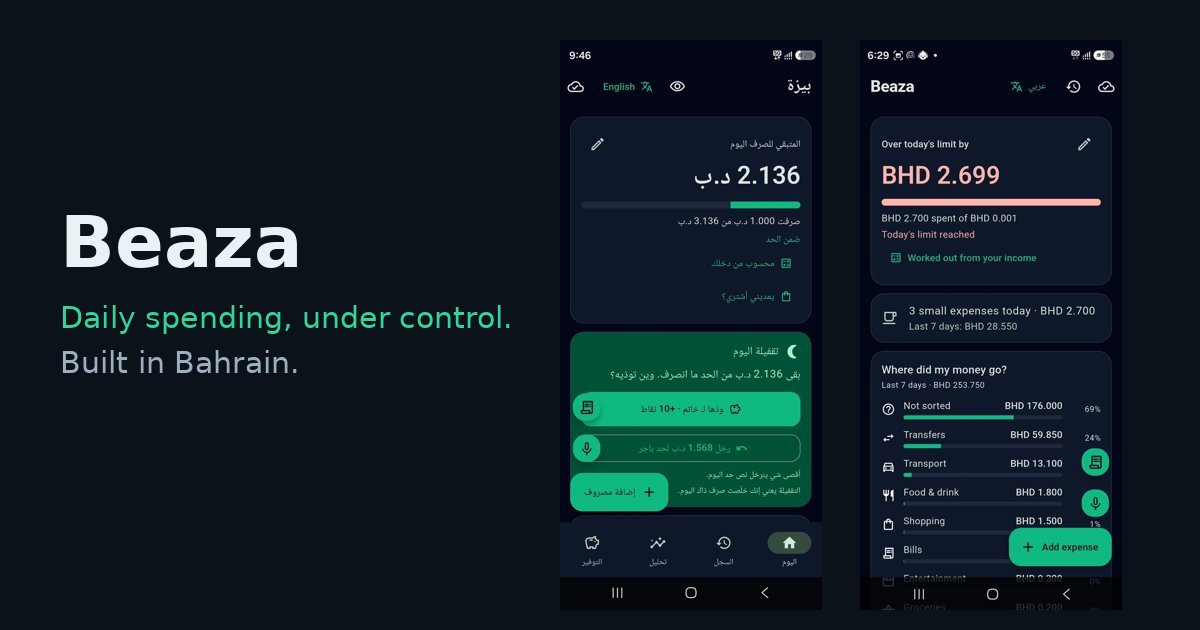
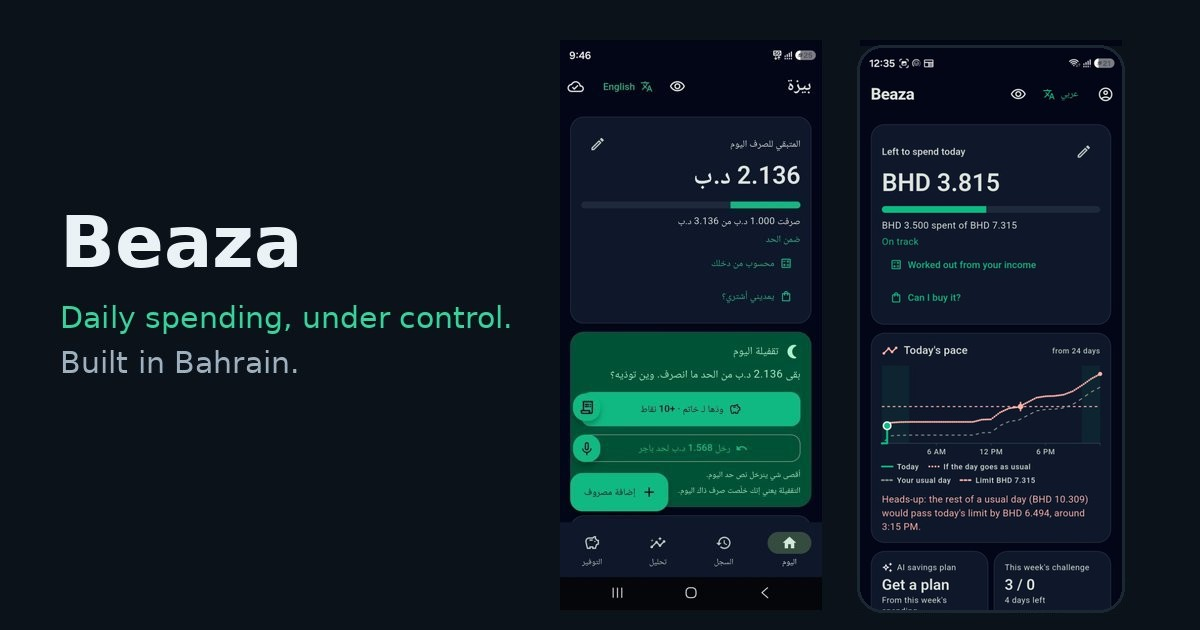
Realistic English Today screenshot (replaces 0.001 BHD limit)
Claude-Session: https://claude.ai/code/session_01Syu8kpVsETXJF3ShwWgHPk

diff --git a/assets/i18n.js b/assets/i18n.js
@@ -1,1 +1,1 @@
-window.BEAZA_AR={"nav.home": "الرئيسية", "nav.about": "من نحن", "nav.services": "الخدمات", "nav.features": "المزايا", "nav.demo": "التجربة", "nav.contact": "تواصل معنا", "nav.lang": "English", "nav.menu": "القائمة", "cta.download": "حمّل لأندرويد", "cta.watch": "شاهد العرض", "cta.contact": "تواصل معنا", "cta.tryit": "جرّب بيزة", "footer.tag": "مصروفك اليومي تحت السيطرة. صُنع في البحرين.", "footer.product": "المنتج", "footer.company": "الشركة", "footer.privacy": "رسائل البنك لا تغادر هاتفك أبدًا. المزامنة وميزات الذكاء الاصطناعي اختيارية ومُطفأة حتى تفعّلها، والمزامنة مشفّرة من طرف إلى طرف.", "footer.rights": "جميع الحقوق محفوظة.", "badge.early": "أندرويد · وصول مبكر", "home.title": "الرئيسية", "home.h1": "اعرف كم صرفت اليوم، قبل أن تفاجئك نهاية الشهر.", "home.lead": "تقرأ بيزة رسائل البنك الإنجليزية الموجودة أصلًا في هاتفك، وتحوّل كل رسالة إلى معاملة، وتُريك كم بقي لك لتصرفه اليوم. بلا إدخال يدوي ولا ربط بحسابك البنكي، والتطبيق نفسه بالعربية والإنجليزية.", "home.problem.h": "المدفوعات الصغيرة تتراكم بصمت", "home.problem.p": "قهوة بين المحاضرات، وطلب توصيل متأخر، وتاكسي إلى البيت. كل واحدة دينار أو اثنان بالبطاقة أو BenefitPay، ولا تشعر بها لحظتها، لكنك تشعر بالمجموع آخر الشهر. بيزة تعطيك رقم اليوم ما دام هناك وقت لتتصرف.", "home.how.h": "كيف تعمل", "home.how.1h": "تصلك رسالة من البنك", "home.how.1p": "ادفع بالبطاقة أو فوري+ كالمعتاد. البنك يرسل لك رسالة عن كل معاملة أصلًا.", "home.how.2h": "بيزة تقرأها على هاتفك", "home.how.2p": "يُستخرج المبلغ والتاجر والنوع والوقت على الجهاز نفسه. وإذا لم تكن بيزة متأكدة من قيمة، تتركها فارغة بدل أن تخمّن.", "home.how.3h": "يتحدّث يومك", "home.how.3p": "يتحدّث المتبقي من حد اليوم فورًا، مع تنبيهات عند 50% و80% و100%.", "home.feat.h": "ماذا ستحصل عليه", "home.f1h": "التقاط تلقائي", "home.f1p": "معاملاتك من رسائل البنك الإنجليزية، بلا إدخال يدوي.", "home.f2h": "حد يومي يناسبك", "home.f2p": "محسوب من دخلك والتزاماتك وهدف ادخارك، بالفلس بدقة.", "home.f3h": "تنبيهات في وقتها", "home.f3p": "عند 50% و80% و100% من الحد، بجانب رسالة البنك نفسها.", "home.f4h": "توقّف قبل الشراء الاندفاعي", "home.f4p": "ضع الشراء في انتظار 24 ساعة، وانقل ما لم تصرفه إلى هدف ادخار في نهاية اليوم.", "home.f5h": "اسأل عن مصروفك", "home.f5p": "«كم باقي لي اليوم؟» والجواب من سجلك أنت، بالعربية أو الإنجليزية.", "home.f6h": "الخصوصية أولًا", "home.f6p": "تُقرأ رسائل البنك على الهاتف ولا تغادره، والمزامنة الاختيارية مشفّرة من طرف إلى طرف.", "home.banks.h": "يعمل مع بنوك الطلاب", "home.banks.p": "دعم أوسع لبنك البحرين الوطني (NBB)، ودعم جزئي لـ BBK وبيتك (KFH) وBisB وila والسلام وBenefitPay، والقائمة تكبر. تُقرأ الرسائل المكتوبة بالإنجليزية فقط حاليًا.", "home.privacy.h": "بياناتك المالية تبقى لك", "home.privacy.p": "تعمل بيزة بدون حساب. وإذا اخترت المزامنة بين هاتفين، تُشفَّر السجلات على جهازك أولًا، فلا يستطيع خادمنا قراءة ما يخزّنه.", "home.final.h": "شاهدها على هاتف حقيقي", "home.final.p": "شاهد العرض أو ثبّت نسخة أندرويد بنفسك.", "about.title": "من نحن", "about.h1": "نبني أدوات مالية تناسب طريقة دفع الطلاب فعلًا.", "about.lead": "بدأت بيزة بملاحظة بسيطة: النقد نادر في يوم الطالب البحريني، ومصروف البطاقة يسهل أن يضيع. فقررنا أن نحوّل الرسائل التي ترسلها البنوك أصلًا إلى رقم يومي واضح.", "about.mission.h": "رسالتنا", "about.mission.p": "مساعدة الطلاب على رؤية كلفة كل يوم والالتزام بحد اختاروه بأنفسهم، دون إدخال أي مصروف يدويًا.", "about.vision.h": "رؤيتنا", "about.vision.p": "بحرين يعرف فيها كل شاب أين يذهب ماله، وتبقى بياناته المالية تحت سيطرته.", "about.obj.h": "أهدافنا", "about.obj.1": "قراءة صيغ رسائل البنوك والمحافظ البحرينية الرئيسية بدقة، وعدم تسجيل أي قيمة غير مؤكدة.", "about.obj.2": "تحويل الدخل والالتزامات والادخار إلى حد يومي، والتنبيه في اللحظة المناسبة.", "about.obj.3": "إبقاء المعالجة على الهاتف افتراضيًا، وطلب الموافقة قبل أي ميزة تتصل بالإنترنت.", "about.obj.4": "تقديم أدوات تحدّ من الشراء الاندفاعي: انتظار 24 ساعة، وإقفال يومي، ونصائح أسبوعية.", "about.obj.5": "تقديم التطبيق كاملًا بالعربية والإنجليزية، ثم إضافة قراءة رسائل البنوك المكتوبة بالعربية.", "about.team.h": "الفريق", "about.team.p": "طالبا علوم حاسوب في جامعة البحرين، صمّما بيزة وبنياها واختبراها معًا.", "about.role.cofounder": "مؤسس مشارك", "about.advisor": "المشرفة", "about.advisor.p": "د. أمل غانم، كلية تقنية المعلومات، جامعة البحرين", "services.title": "الخدمات", "services.h1": "كل ما تحتاجه لتبقى ضمن ميزانية اليوم", "services.lead": "بيزة تطبيق واحد بمجموعة خدمات تعمل معًا، من لحظة وصول رسالة البنك حتى نهاية يومك.", "s1.h": "التقاط المصاريف تلقائيًا", "s1.p": "تقرأ بيزة رسائل المعاملات المكتوبة بالإنجليزية من البنوك والمحافظ المدعومة، وتسجّل المبلغ والتاجر والنوع والوقت. والرسائل التي لا تستطيع قراءتها تذهب إلى قائمة مراجعة قصيرة، فترى ما فاتها.", "s2.h": "حد صرف يومي", "s2.p": "أخبر بيزة بدخلك والتزاماتك الثابتة وكم تريد أن تدّخر، فتحسب لك حدًا يوميًا بالفلس وتعيد حسابه بعد كل تغيير.", "s3.h": "تنبيهات في وقتها وإقفال يومي", "s3.p": "تنبيهات عند 50% و80% و100% من الحد، وفي نهاية اليوم يمكن نقل ما لم تصرفه إلى هدف ادخارك.", "s4.h": "التحكم في الاندفاع", "s4.p": "فحص «يمديني أشتري؟» مقابل حد اليوم، وانتظار 24 ساعة للأشياء التي تريدها ولا تحتاجها الآن، ونصائح أسبوعية.", "s5.h": "اسأل عن مصروفك", "s5.p": "اكتب سؤالًا مثل «كم صرفت هالأسبوع؟» بالعربية أو الإنجليزية، فيجيب الهاتف من سجلاتك. ويمكن لوضع «إجابات أذكى» الاختياري أن يحسّن الصياغة، وأي رد يحتوي رقمًا لم تعطه بيزة يُرفض.", "s6.h": "مزامنة مشفّرة بين الهواتف", "s6.p": "اختيارية. تُشفَّر السجلات على هاتفك قبل خروجها، فلا يخزّن الخادم إلا بيانات لا يستطيع فتحها.", "s7.h": "تحويل العملات", "s7.p": "صرفت بالدولار أو الريال أو الدرهم؟ تحوّل بيزة الدولار والريال السعودي والدرهم الإماراتي والريال القطري إلى الدينار بأسعار الربط الثابتة على الهاتف، والدينار الكويتي بسعر تقريبي مؤرَّخ.", "features.title": "مزايا المنتج", "features.h1": "مصمَّم للدقة والخصوصية والاستخدام اليومي", "features.lead": "نظرة أقرب على ما تقدمه بيزة، وكيف تعمل من الداخل، ولمن صُمّمت.", "ben.h": "الفوائد", "ben.1": "ترى مصروف اليوم بنظرة، لا في نهاية الشهر.", "ben.2": "توقف عن إدخال المصاريف يدويًا: رسالة البنك تكفي.", "ben.3": "تصلك تنبيهة في اللحظة المفيدة، قبل الشراء التالي.", "ben.4": "حوّل ما لم تصرفه إلى تقدّم نحو هدفك.", "tech.h": "القدرات التقنية", "tech.1h": "استخراج على الجهاز", "tech.1p": "عشرون قالبًا مبنيًا على القواعد لسبعة بنوك ومحافظ بحرينية، والمستخرِج يترك الحقل فارغًا بدل أن يخمّن.", "tech.2h": "حسابات مالية دقيقة", "tech.2p": "كل مبلغ يُخزَّن ويُحسب بالفلس كعدد صحيح، فلا مفاجآت في التقريب.", "tech.3h": "تشفير قوي", "tech.3p": "قاعدة البيانات مشفّرة على الهاتف، والمزامنة تستخدم XChaCha20-Poly1305 مع اشتقاق المفاتيح بـ Argon2id.", "tech.4h": "إجابات ذكاء اصطناعي مُدقَّقة", "tech.4p": "الهاتف يحسب كل رقم، والنموذج الاختياري يصيغ الجواب فقط، وأي رد بأرقام غير مُتحقَّق منها يُستبعد.", "tech.5h": "خادم خفيف بلا إدارة", "tech.5p": "Cloudflare Workers مع قاعدة بيانات D1 محفوظة ضمن نطاق الاتحاد الأوروبي.", "tech.6h": "مُختبَر مع كل تغيير", "tech.6p": "أكثر من 1,100 اختبار آلي تعمل مع كل تحديث، وتغطي المستخرِج والمساعد والتشفير والخادم والتطبيق.", "aud.h": "لمن صُمّمت", "aud.p": "طلاب الجامعات في البحرين الذين يدفعون غالبًا بالبطاقة أو BenefitPay أو فوري+، وكل من لديه مصروف أو راتب ثابت ويريد رقمًا يوميًا بدل مفاجأة آخر الشهر.", "edge.h": "لماذا بيزة", "edge.1h": "بلا إدخال يدوي", "edge.1p": "تطبيقات التتبع اليدوي تعتمد على عادة يتركها الناس غالبًا، وبيزة تبدأ من رسائل تصلك أصلًا.", "edge.2h": "بنوك كثيرة في مكان واحد", "edge.2p": "تقرأ رسائل عدة بنوك ومحافظ بحرينية، بلا تسجيل دخول للبنك ولا حاجة لترخيص الخدمات المصرفية المفتوحة.", "edge.3h": "يومي لا شهري", "edge.3p": "حد اليوم شيء تستطيع أن تتصرف بناءً عليه قبل الشراء القادم.", "edge.4h": "محلي وثنائي اللغة", "edge.4p": "مصمَّم لبنوك البحرين والدينار والفلس، وواجهته بالعربية أو الإنجليزية.", "demo.title": "التجربة", "demo.h1": "جرّب بيزة", "demo.lead": "شاهد التطبيق يعمل على هاتف حقيقي، أو ثبّت نسخة أندرويد وجرّبها برسائل بنكك المكتوبة بالإنجليزية.", "demo.video.h": "عرض بالفيديو", "demo.video.missing": "سيظهر فيديو العرض هنا.", "demo.apk.h": "التثبيت على أندرويد", "demo.apk.1": "حمّل ملف APK على هاتف أندرويد.", "demo.apk.2": "افتحه واسمح بالتثبيت من هذا المصدر عندما يطلب أندرويد. ولأن بيزة ليست على Google Play بعد، قد يحذّرك Google Play Protect أو يمنع التثبيت. اختر «التثبيت على أي حال»، أو أوقف فحص Play Protect مؤقتًا ثم أعد تشغيله بعد التثبيت.", "demo.apk.3": "اسمح بالوصول إلى الرسائل عندما تطلب بيزة. تقرأ التنبيهات المكتوبة بالإنجليزية من البنوك المدعومة، على الهاتف نفسه.", "demo.apk.4": "أدخل دخلك والتزاماتك، فيظهر حدك اليومي.", "demo.apk.note": "متاحة لأندرويد فقط حاليًا. تُقرأ رسائل البنك على الهاتف ولا تغادره أبدًا.", "demo.code": "اطّلع على الكود في GitHub", "demo.shots.h": "لقطات من التطبيق", "shot.1": "حد اليوم بالعربية", "shot.2": "تجاوز الحد بالإنجليزية", "shot.3": "هدف الادخار وانتظار 24 ساعة", "shot.4": "تنبيه 50% من بيزة بجانب رسالة البنك", "shot.5": "اسأل عن مصروفك", "contact.title": "تواصل معنا", "contact.h1": "لنتحدث", "contact.lead": "عندك سؤال أو فكرة شراكة أو ملاحظة على التطبيق؟ نقرأ كل رسالة.", "contact.email": "البريد الإلكتروني", "contact.linkedin": "لينكدإن", "contact.location": "الموقع", "contact.location.v": "مملكة البحرين", "form.name": "اسمك", "form.email": "بريدك الإلكتروني", "form.msg": "رسالتك", "form.send": "أرسل الرسالة", "form.ok": "شكرًا لك، تم إرسال رسالتك.", "form.mail": "سيفتح تطبيق البريد ورسالتك جاهزة للإرسال.", "form.err": "عذرًا، تعذّر إرسال الرسالة. راسلنا على البريد مباشرة.", "nf.h": "الصفحة غير موجودة", "nf.p": "الصفحة التي تبحث عنها غير موجودة.", "home.rhythm.h": "طريقة أهدأ للصرف", "home.rhythm.1h": "لاحِظ", "home.rhythm.1p": "كل دفعة تغيّر رقم المتبقي لليوم، فيظهر الصرف الصغير لحظة حدوثه.", "home.rhythm.2h": "اختر", "home.rhythm.2p": "قبل أن تدفع، تأكّد إن كان يناسب حد اليوم، أو دعه ينتظر يومًا.", "home.rhythm.3h": "ابدأ من جديد", "home.rhythm.3p": "في نهاية اليوم يمكن نقل ما لم تصرفه إلى هدفك، ويبدأ الغد بحد جديد.", "home.honest.h": "مصمَّمة لتفيدك، وصادقة معك دائمًا.", "home.honest.p": "تخبرك بيزة عندما لا تكون متأكدة. إذا تعذّرت قراءة قيمة في الرسالة بثقة، يبقى الحقل فارغًا. ودعم الرسائل يعتمد على البنك وصياغة رسائله، ولا تُقرأ الرسائل المكتوبة بالعربية بعد.", "home.made.h": "مصمَّمة من أجل", "home.made.1": "الطلاب", "home.made.2": "أصحاب أول وظيفة", "home.made.3": "من يعيش على مصروف شهري", "home.made.4": "مستخدمو البطاقة وBenefitPay", "demo.live.h": "جرّبها مباشرة", "demo.live.p": "نموذج يعمل لشاشات التطبيق داخل المتصفح. أضف مصروفًا، غيّر الحد، ضع شراءً في الانتظار، أو اسأل سؤالًا.", "demo.live.note": "بيانات مثال فقط. هذا نموذج ويب باللغة الإنجليزية فقط وليس تطبيق أندرويد: لا يقرأ الرسائل ولا يتصل بالبنك ولا يحفظ ما تدخله. أما تطبيق أندرويد فيعمل بالكامل بالعربية والإنجليزية.", "demo.live.title": "النموذج التفاعلي لبيزة", "faq.h": "أسئلة شائعة", "faq.1q": "هل تقرأ الرسائل العربية؟", "faq.1a": "ليس بعد. كل تنبيهات المعاملات التي جمعناها حتى الآن بالإنجليزية، لذلك تقرأ بيزة التنبيهات الإنجليزية حاليًا، أما التطبيق نفسه فبالعربية بالكامل.", "faq.2q": "هل تحتاج بيزة بيانات دخول البنك؟", "faq.2a": "لا. تقرأ فقط الرسائل التي يرسلها بنكك إلى هاتفك أصلًا.", "faq.3q": "هل يوجد إصدار للآيفون؟", "faq.3a": "لا. بيزة لأندرويد فقط حاليًا، لأنها تقرأ الرسائل على الهاتف.", "faq.4q": "ماذا يحدث عندما لا تكون بيزة متأكدة؟", "faq.4a": "تترك الحقل فارغًا وتضع الرسالة في قائمة مراجعة قصيرة، بدل أن تخمّن.", "skip": "انتقل إلى المحتوى", "demo.video.desc": "تسجيل مدته 46 ثانية لتطبيق أندرويد على هاتف حقيقي: حد اليوم، ووتيرة الصرف، وطرح سؤال، والتبديل بين اللغتين. التعليقات بالإنجليزية والعربية."};
+window.BEAZA_AR={"nav.home": "الرئيسية", "nav.about": "من نحن", "nav.services": "الخدمات", "nav.features": "المزايا", "nav.demo": "التجربة", "nav.contact": "تواصل معنا", "nav.lang": "English", "nav.menu": "القائمة", "cta.download": "حمّل لأندرويد", "cta.watch": "شاهد العرض", "cta.contact": "تواصل معنا", "cta.tryit": "جرّب بيزة", "footer.tag": "مصروفك اليومي تحت السيطرة. صُنع في البحرين.", "footer.product": "المنتج", "footer.company": "الشركة", "footer.privacy": "رسائل البنك لا تغادر هاتفك أبدًا. المزامنة وميزات الذكاء الاصطناعي اختيارية ومُطفأة حتى تفعّلها، والمزامنة مشفّرة من طرف إلى طرف.", "footer.rights": "جميع الحقوق محفوظة.", "badge.early": "أندرويد · وصول مبكر", "home.title": "الرئيسية", "home.h1": "اعرف كم صرفت اليوم، قبل أن تفاجئك نهاية الشهر.", "home.lead": "تقرأ بيزة رسائل البنك الإنجليزية الموجودة أصلًا في هاتفك، وتحوّل كل رسالة إلى معاملة، وتُريك كم بقي لك لتصرفه اليوم. بلا إدخال يدوي ولا ربط بحسابك البنكي، والتطبيق نفسه بالعربية والإنجليزية.", "home.problem.h": "المدفوعات الصغيرة تتراكم بصمت", "home.problem.p": "قهوة بين المحاضرات، وطلب توصيل متأخر، وتاكسي إلى البيت. كل واحدة دينار أو اثنان بالبطاقة أو BenefitPay، ولا تشعر بها لحظتها، لكنك تشعر بالمجموع آخر الشهر. بيزة تعطيك رقم اليوم ما دام هناك وقت لتتصرف.", "home.how.h": "كيف تعمل", "home.how.1h": "تصلك رسالة من البنك", "home.how.1p": "ادفع بالبطاقة أو فوري+ كالمعتاد. البنك يرسل لك رسالة عن كل معاملة أصلًا.", "home.how.2h": "بيزة تقرأها على هاتفك", "home.how.2p": "يُستخرج المبلغ والتاجر والنوع والوقت على الجهاز نفسه. وإذا لم تكن بيزة متأكدة من قيمة، تتركها فارغة بدل أن تخمّن.", "home.how.3h": "يتحدّث يومك", "home.how.3p": "يتحدّث المتبقي من حد اليوم فورًا، مع تنبيهات عند 50% و80% و100%.", "home.feat.h": "ماذا ستحصل عليه", "home.f1h": "التقاط تلقائي", "home.f1p": "معاملاتك من رسائل البنك الإنجليزية، بلا إدخال يدوي.", "home.f2h": "حد يومي يناسبك", "home.f2p": "محسوب من دخلك والتزاماتك وهدف ادخارك، بالفلس بدقة.", "home.f3h": "تنبيهات في وقتها", "home.f3p": "عند 50% و80% و100% من الحد، بجانب رسالة البنك نفسها.", "home.f4h": "توقّف قبل الشراء الاندفاعي", "home.f4p": "ضع الشراء في انتظار 24 ساعة، وانقل ما لم تصرفه إلى هدف ادخار في نهاية اليوم.", "home.f5h": "اسأل عن مصروفك", "home.f5p": "«كم باقي لي اليوم؟» والجواب من سجلك أنت، بالعربية أو الإنجليزية.", "home.f6h": "الخصوصية أولًا", "home.f6p": "تُقرأ رسائل البنك على الهاتف ولا تغادره، والمزامنة الاختيارية مشفّرة من طرف إلى طرف.", "home.banks.h": "يعمل مع بنوك الطلاب", "home.banks.p": "دعم أوسع لبنك البحرين الوطني (NBB)، ودعم جزئي لـ BBK وبيتك (KFH) وBisB وila والسلام وBenefitPay، والقائمة تكبر. تُقرأ الرسائل المكتوبة بالإنجليزية فقط حاليًا.", "home.privacy.h": "بياناتك المالية تبقى لك", "home.privacy.p": "تعمل بيزة بدون حساب. وإذا اخترت المزامنة بين هاتفين، تُشفَّر السجلات على جهازك أولًا، فلا يستطيع خادمنا قراءة ما يخزّنه.", "home.final.h": "شاهدها على هاتف حقيقي", "home.final.p": "شاهد العرض أو ثبّت نسخة أندرويد بنفسك.", "about.title": "من نحن", "about.h1": "نبني أدوات مالية تناسب طريقة دفع الطلاب فعلًا.", "about.lead": "بدأت بيزة بملاحظة بسيطة: النقد نادر في يوم الطالب البحريني، ومصروف البطاقة يسهل أن يضيع. فقررنا أن نحوّل الرسائل التي ترسلها البنوك أصلًا إلى رقم يومي واضح.", "about.mission.h": "رسالتنا", "about.mission.p": "مساعدة الطلاب على رؤية كلفة كل يوم والالتزام بحد اختاروه بأنفسهم، دون إدخال أي مصروف يدويًا.", "about.vision.h": "رؤيتنا", "about.vision.p": "بحرين يعرف فيها كل شاب أين يذهب ماله، وتبقى بياناته المالية تحت سيطرته.", "about.obj.h": "أهدافنا", "about.obj.1": "قراءة صيغ رسائل البنوك والمحافظ البحرينية الرئيسية بدقة، وعدم تسجيل أي قيمة غير مؤكدة.", "about.obj.2": "تحويل الدخل والالتزامات والادخار إلى حد يومي، والتنبيه في اللحظة المناسبة.", "about.obj.3": "إبقاء المعالجة على الهاتف افتراضيًا، وطلب الموافقة قبل أي ميزة تتصل بالإنترنت.", "about.obj.4": "تقديم أدوات تحدّ من الشراء الاندفاعي: انتظار 24 ساعة، وإقفال يومي، ونصائح أسبوعية.", "about.obj.5": "تقديم التطبيق كاملًا بالعربية والإنجليزية، ثم إضافة قراءة رسائل البنوك المكتوبة بالعربية.", "about.team.h": "الفريق", "about.team.p": "طالبا علوم حاسوب في جامعة البحرين، صمّما بيزة وبنياها واختبراها معًا.", "about.role.cofounder": "مؤسس مشارك", "about.advisor": "المشرفة", "about.advisor.p": "د. أمل غانم، كلية تقنية المعلومات، جامعة البحرين", "services.title": "الخدمات", "services.h1": "كل ما تحتاجه لتبقى ضمن ميزانية اليوم", "services.lead": "بيزة تطبيق واحد بمجموعة خدمات تعمل معًا، من لحظة وصول رسالة البنك حتى نهاية يومك.", "s1.h": "التقاط المصاريف تلقائيًا", "s1.p": "تقرأ بيزة رسائل المعاملات المكتوبة بالإنجليزية من البنوك والمحافظ المدعومة، وتسجّل المبلغ والتاجر والنوع والوقت. والرسائل التي لا تستطيع قراءتها تذهب إلى قائمة مراجعة قصيرة، فترى ما فاتها.", "s2.h": "حد صرف يومي", "s2.p": "أخبر بيزة بدخلك والتزاماتك الثابتة وكم تريد أن تدّخر، فتحسب لك حدًا يوميًا بالفلس وتعيد حسابه بعد كل تغيير.", "s3.h": "تنبيهات في وقتها وإقفال يومي", "s3.p": "تنبيهات عند 50% و80% و100% من الحد، وفي نهاية اليوم يمكن نقل ما لم تصرفه إلى هدف ادخارك.", "s4.h": "التحكم في الاندفاع", "s4.p": "فحص «يمديني أشتري؟» مقابل حد اليوم، وانتظار 24 ساعة للأشياء التي تريدها ولا تحتاجها الآن، ونصائح أسبوعية.", "s5.h": "اسأل عن مصروفك", "s5.p": "اكتب سؤالًا مثل «كم صرفت هالأسبوع؟» بالعربية أو الإنجليزية، فيجيب الهاتف من سجلاتك. ويمكن لوضع «إجابات أذكى» الاختياري أن يحسّن الصياغة، وأي رد يحتوي رقمًا لم تعطه بيزة يُرفض.", "s6.h": "مزامنة مشفّرة بين الهواتف", "s6.p": "اختيارية. تُشفَّر السجلات على هاتفك قبل خروجها، فلا يخزّن الخادم إلا بيانات لا يستطيع فتحها.", "s7.h": "تحويل العملات", "s7.p": "صرفت بالدولار أو الريال أو الدرهم؟ تحوّل بيزة الدولار والريال السعودي والدرهم الإماراتي والريال القطري إلى الدينار بأسعار الربط الثابتة على الهاتف، والدينار الكويتي بسعر تقريبي مؤرَّخ.", "features.title": "مزايا المنتج", "features.h1": "مصمَّم للدقة والخصوصية والاستخدام اليومي", "features.lead": "نظرة أقرب على ما تقدمه بيزة، وكيف تعمل من الداخل، ولمن صُمّمت.", "ben.h": "الفوائد", "ben.1": "ترى مصروف اليوم بنظرة، لا في نهاية الشهر.", "ben.2": "توقف عن إدخال المصاريف يدويًا: رسالة البنك تكفي.", "ben.3": "تصلك تنبيهة في اللحظة المفيدة، قبل الشراء التالي.", "ben.4": "حوّل ما لم تصرفه إلى تقدّم نحو هدفك.", "tech.h": "القدرات التقنية", "tech.1h": "استخراج على الجهاز", "tech.1p": "عشرون قالبًا مبنيًا على القواعد لسبعة بنوك ومحافظ بحرينية، والمستخرِج يترك الحقل فارغًا بدل أن يخمّن.", "tech.2h": "حسابات مالية دقيقة", "tech.2p": "كل مبلغ يُخزَّن ويُحسب بالفلس كعدد صحيح، فلا مفاجآت في التقريب.", "tech.3h": "تشفير قوي", "tech.3p": "قاعدة البيانات مشفّرة على الهاتف، والمزامنة تستخدم XChaCha20-Poly1305 مع اشتقاق المفاتيح بـ Argon2id.", "tech.4h": "إجابات ذكاء اصطناعي مُدقَّقة", "tech.4p": "الهاتف يحسب كل رقم، والنموذج الاختياري يصيغ الجواب فقط، وأي رد بأرقام غير مُتحقَّق منها يُستبعد.", "tech.5h": "خادم خفيف بلا إدارة", "tech.5p": "Cloudflare Workers مع قاعدة بيانات D1 محفوظة ضمن نطاق الاتحاد الأوروبي.", "tech.6h": "مُختبَر مع كل تغيير", "tech.6p": "أكثر من 1,100 اختبار آلي تعمل مع كل تحديث، وتغطي المستخرِج والمساعد والتشفير والخادم والتطبيق.", "aud.h": "لمن صُمّمت", "aud.p": "طلاب الجامعات في البحرين الذين يدفعون غالبًا بالبطاقة أو BenefitPay أو فوري+، وكل من لديه مصروف أو راتب ثابت ويريد رقمًا يوميًا بدل مفاجأة آخر الشهر.", "edge.h": "لماذا بيزة", "edge.1h": "بلا إدخال يدوي", "edge.1p": "تطبيقات التتبع اليدوي تعتمد على عادة يتركها الناس غالبًا، وبيزة تبدأ من رسائل تصلك أصلًا.", "edge.2h": "بنوك كثيرة في مكان واحد", "edge.2p": "تقرأ رسائل عدة بنوك ومحافظ بحرينية، بلا تسجيل دخول للبنك ولا حاجة لترخيص الخدمات المصرفية المفتوحة.", "edge.3h": "يومي لا شهري", "edge.3p": "حد اليوم شيء تستطيع أن تتصرف بناءً عليه قبل الشراء القادم.", "edge.4h": "محلي وثنائي اللغة", "edge.4p": "مصمَّم لبنوك البحرين والدينار والفلس، وواجهته بالعربية أو الإنجليزية.", "demo.title": "التجربة", "demo.h1": "جرّب بيزة", "demo.lead": "شاهد التطبيق يعمل على هاتف حقيقي، أو ثبّت نسخة أندرويد وجرّبها برسائل بنكك المكتوبة بالإنجليزية.", "demo.video.h": "عرض بالفيديو", "demo.video.missing": "سيظهر فيديو العرض هنا.", "demo.apk.h": "التثبيت على أندرويد", "demo.apk.1": "حمّل ملف APK على هاتف أندرويد.", "demo.apk.2": "افتحه واسمح بالتثبيت من هذا المصدر عندما يطلب أندرويد. ولأن بيزة ليست على Google Play بعد، قد يحذّرك Google Play Protect أو يمنع التثبيت. اختر «التثبيت على أي حال»، أو أوقف فحص Play Protect مؤقتًا ثم أعد تشغيله بعد التثبيت.", "demo.apk.3": "اسمح بالوصول إلى الرسائل عندما تطلب بيزة. تقرأ التنبيهات المكتوبة بالإنجليزية من البنوك المدعومة، على الهاتف نفسه.", "demo.apk.4": "أدخل دخلك والتزاماتك، فيظهر حدك اليومي.", "demo.apk.note": "متاحة لأندرويد فقط حاليًا. تُقرأ رسائل البنك على الهاتف ولا تغادره أبدًا.", "demo.code": "اطّلع على الكود في GitHub", "demo.shots.h": "لقطات من التطبيق", "shot.1": "حد اليوم بالعربية", "shot.2": "اليوم بالإنجليزية مع وتيرة الصرف", "shot.3": "هدف الادخار وانتظار 24 ساعة", "shot.4": "تنبيه 50% من بيزة بجانب رسالة البنك", "shot.5": "اسأل عن مصروفك", "contact.title": "تواصل معنا", "contact.h1": "لنتحدث", "contact.lead": "عندك سؤال أو فكرة شراكة أو ملاحظة على التطبيق؟ نقرأ كل رسالة.", "contact.email": "البريد الإلكتروني", "contact.linkedin": "لينكدإن", "contact.location": "الموقع", "contact.location.v": "مملكة البحرين", "form.name": "اسمك", "form.email": "بريدك الإلكتروني", "form.msg": "رسالتك", "form.send": "أرسل الرسالة", "form.ok": "شكرًا لك، تم إرسال رسالتك.", "form.mail": "سيفتح تطبيق البريد ورسالتك جاهزة للإرسال.", "form.err": "عذرًا، تعذّر إرسال الرسالة. راسلنا على البريد مباشرة.", "nf.h": "الصفحة غير موجودة", "nf.p": "الصفحة التي تبحث عنها غير موجودة.", "home.rhythm.h": "طريقة أهدأ للصرف", "home.rhythm.1h": "لاحِظ", "home.rhythm.1p": "كل دفعة تغيّر رقم المتبقي لليوم، فيظهر الصرف الصغير لحظة حدوثه.", "home.rhythm.2h": "اختر", "home.rhythm.2p": "قبل أن تدفع، تأكّد إن كان يناسب حد اليوم، أو دعه ينتظر يومًا.", "home.rhythm.3h": "ابدأ من جديد", "home.rhythm.3p": "في نهاية اليوم يمكن نقل ما لم تصرفه إلى هدفك، ويبدأ الغد بحد جديد.", "home.honest.h": "مصمَّمة لتفيدك، وصادقة معك دائمًا.", "home.honest.p": "تخبرك بيزة عندما لا تكون متأكدة. إذا تعذّرت قراءة قيمة في الرسالة بثقة، يبقى الحقل فارغًا. ودعم الرسائل يعتمد على البنك وصياغة رسائله، ولا تُقرأ الرسائل المكتوبة بالعربية بعد.", "home.made.h": "مصمَّمة من أجل", "home.made.1": "الطلاب", "home.made.2": "أصحاب أول وظيفة", "home.made.3": "من يعيش على مصروف شهري", "home.made.4": "مستخدمو البطاقة وBenefitPay", "demo.live.h": "جرّبها مباشرة", "demo.live.p": "نموذج يعمل لشاشات التطبيق داخل المتصفح. أضف مصروفًا، غيّر الحد، ضع شراءً في الانتظار، أو اسأل سؤالًا.", "demo.live.note": "بيانات مثال فقط. هذا نموذج ويب باللغة الإنجليزية فقط وليس تطبيق أندرويد: لا يقرأ الرسائل ولا يتصل بالبنك ولا يحفظ ما تدخله. أما تطبيق أندرويد فيعمل بالكامل بالعربية والإنجليزية.", "demo.live.title": "النموذج التفاعلي لبيزة", "faq.h": "أسئلة شائعة", "faq.1q": "هل تقرأ الرسائل العربية؟", "faq.1a": "ليس بعد. كل تنبيهات المعاملات التي جمعناها حتى الآن بالإنجليزية، لذلك تقرأ بيزة التنبيهات الإنجليزية حاليًا، أما التطبيق نفسه فبالعربية بالكامل.", "faq.2q": "هل تحتاج بيزة بيانات دخول البنك؟", "faq.2a": "لا. تقرأ فقط الرسائل التي يرسلها بنكك إلى هاتفك أصلًا.", "faq.3q": "هل يوجد إصدار للآيفون؟", "faq.3a": "لا. بيزة لأندرويد فقط حاليًا، لأنها تقرأ الرسائل على الهاتف.", "faq.4q": "ماذا يحدث عندما لا تكون بيزة متأكدة؟", "faq.4a": "تترك الحقل فارغًا وتضع الرسالة في قائمة مراجعة قصيرة، بدل أن تخمّن.", "skip": "انتقل إلى المحتوى", "demo.video.desc": "تسجيل مدته 52 ثانية لتطبيق أندرويد على هاتف حقيقي مع تعليق صوتي بالإنجليزية: حد اليوم، ووتيرة الصرف، وطرح سؤال، وشاشة التوفير، والتبديل بين اللغتين. التعليقات بالإنجليزية والعربية."};

diff --git a/features.html b/features.html
@@ -34,7 +34,7 @@
 <div class="grid3"><div class="card"><svg class="ic" viewBox="0 0 24 24" aria-hidden="true"><rect x="6" y="6" width="12" height="12" rx="2"/><path d="M9 2v3M15 2v3M9 19v3M15 19v3M2 9h3M2 15h3M19 9h3M19 15h3"/></svg><h3 data-i18n="tech.1h">On-device extraction</h3><p data-i18n="tech.1p">Twenty rule-based templates for seven Bahraini banks and wallets. The extractor leaves a field blank rather than guess.</p></div><div class="card"><svg class="ic" viewBox="0 0 24 24" aria-hidden="true"><circle cx="12" cy="12" r="8.5"/><path d="M9 10.5h6M9 13.5h6"/></svg><h3 data-i18n="tech.2h">Exact money maths</h3><p data-i18n="tech.2p">Every amount is stored and computed in integer fils, so there are no rounding surprises.</p></div><div class="card"><svg class="ic" viewBox="0 0 24 24" aria-hidden="true"><rect x="5" y="10.5" width="14" height="10" rx="2"/><path d="M8 10.5V8a4 4 0 0 1 8 0v2.5"/></svg><h3 data-i18n="tech.3h">Strong encryption</h3><p data-i18n="tech.3p">Local database encrypted on the phone. Sync uses XChaCha20-Poly1305 with Argon2id key derivation.</p></div><div class="card"><svg class="ic" viewBox="0 0 24 24" aria-hidden="true"><path d="M4 5h16v10H10l-5 4v-4H4z"/><path d="M8.5 10h.01M12 10h.01M15.5 10h.01"/></svg><h3 data-i18n="tech.4h">Checked AI answers</h3><p data-i18n="tech.4p">The phone computes every figure. An optional model only words the answer, and replies with unchecked numbers are discarded.</p></div><div class="card"><svg class="ic" viewBox="0 0 24 24" aria-hidden="true"><path d="M7 18a4.5 4.5 0 0 1-.6-9A6 6 0 0 1 18 9.5a4 4 0 0 1-.5 8.5z"/></svg><h3 data-i18n="tech.5h">Light, serverless backend</h3><p data-i18n="tech.5p">Cloudflare Workers with a D1 database held in the EU jurisdiction.</p></div><div class="card"><svg class="ic" viewBox="0 0 24 24" aria-hidden="true"><path d="M5 12.5l4.5 4.5L19 7.5"/></svg><h3 data-i18n="tech.6h">Tested on every change</h3><p data-i18n="tech.6p">More than 1,100 automated tests run on every update, across the extractor, assistant, encryption, server and app.</p></div></div></div></section>
 <section><div class="wrap split">
 <div><h2 data-i18n="aud.h">Who it is for</h2><p class="lead2" data-i18n="aud.p">University students in Bahrain who pay mostly by card, BenefitPay or Fawri+, and anyone with a fixed allowance or salary who wants a daily number instead of a monthly surprise.</p></div>
-<figure class="phone solo"><img src="img/screen-over-limit-en.jpg" alt="Beaza in English: today's limit reached, spending by category" loading="lazy" width="689" height="1500"></figure>
+<figure class="phone solo"><img src="img/screen-today-en.jpg" alt="Beaza in English: what is left today and today's spending pace" loading="lazy" width="689" height="1500"></figure>
 </div></section>
 <section class="band"><div class="wrap"><h2 data-i18n="edge.h">Why Beaza</h2>
 <div class="grid2"><div class="card"><svg class="ic" viewBox="0 0 24 24" aria-hidden="true"><path d="M4 5h16v11H8l-4 4z"/><path d="M8 9.5h8M8 12.5h5"/></svg><h3 data-i18n="edge.1h">No typing</h3><p data-i18n="edge.1p">Manual trackers depend on a habit people tend to drop. Beaza starts from messages you already receive.</p></div><div class="card"><svg class="ic" viewBox="0 0 24 24" aria-hidden="true"><path d="M5 9a7 7 0 0 1 12.5-2.5L19 8M19 15a7 7 0 0 1-12.5 2.5L5 16"/><path d="M19 4v4h-4M5 20v-4h4"/></svg><h3 data-i18n="edge.2h">Many banks, one view</h3><p data-i18n="edge.2p">Reads messages from several Bahraini banks and wallets, with no bank login or open-banking licence needed.</p></div><div class="card"><svg class="ic" viewBox="0 0 24 24" aria-hidden="true"><path d="M4 16a8 8 0 1 1 16 0"/><path d="M12 16l4-5"/><circle cx="12" cy="16" r="1.2"/></svg><h3 data-i18n="edge.3h">Daily, not monthly</h3><p data-i18n="edge.3p">A limit for today is something you can act on before the next purchase.</p></div><div class="card"><svg class="ic" viewBox="0 0 24 24" aria-hidden="true"><path d="M12 3v4M12 17v4M3 12h4M17 12h4M6 6l2.5 2.5M15.5 15.5L18 18M18 6l-2.5 2.5M8.5 15.5L6 18"/></svg><h3 data-i18n="edge.4h">Local and bilingual</h3><p data-i18n="edge.4p">Made for Bahraini banks, dinars and fils, with an app you can use in Arabic or English.</p></div></div>

diff --git a/index.html b/index.html
@@ -30,7 +30,7 @@
 <main id="main">
 <section class="hero home-hero"><div class="wrap hero-grid">
 <div class="hero-copy"><span class="badge" data-i18n="badge.early">Android · Early access</span><h1 data-i18n="home.h1">Know what today cost, before the month does the maths for you.</h1><p class="lead" data-i18n="home.lead">Beaza reads the English-language bank SMS already on your phone, turns each one into a transaction, and shows how much you can still spend today. No typing and no bank login. The app itself works in Arabic and English.</p><div class="ctas"><a class="btn primary" data-cfg-href="apkUrl" href="demo.html"><svg class="ic sm" viewBox="0 0 24 24" aria-hidden="true"><path d="M5 12.5l4.5 4.5L19 7.5"/></svg><span data-i18n="cta.download">Download for Android</span></a><a class="btn ghost" href="demo.html#video"><span data-i18n="cta.watch">Watch the demo</span></a></div></div>
-<div class="hero-art"><figure class="phone back"><img src="img/screen-today-ar.jpg" alt="Beaza home screen in Arabic showing what is left to spend today" loading="lazy" width="689" height="1500"></figure><figure class="phone front"><img src="img/screen-over-limit-en.jpg" alt="Beaza home screen in English showing today's limit reached" loading="lazy" width="689" height="1500"></figure></div>
+<div class="hero-art"><figure class="phone back"><img src="img/screen-today-ar.jpg" alt="Beaza home screen in Arabic showing what is left to spend today" loading="lazy" width="689" height="1500"></figure><figure class="phone front"><img src="img/screen-today-en.jpg" alt="Beaza home screen in English showing what is left to spend today" loading="lazy" width="689" height="1500"></figure></div>
 </div></section>
 <section class="band"><div class="wrap split">
 <div><h2 data-i18n="home.problem.h">Small payments add up quietly</h2><p class="lead2" data-i18n="home.problem.p">Coffee between lectures, a late delivery order, a taxi home. Each one is a dinar or two on a card or BenefitPay, and none of it feels like spending in the moment. The month-end total does. Beaza puts a number on today, while there is still time to act on it.</p></div>

diff --git a/demo.html b/demo.html
@@ -44,7 +44,7 @@
 <section><div class="wrap"><h2 data-i18n="demo.shots.h">Screenshots</h2>
 <div class="gallery">
 <figure><figure class="phone "><img src="img/screen-today-ar.jpg" alt="Today's limit in Arabic" loading="lazy" width="689" height="1500"></figure><figcaption><span data-i18n="shot.1">Today's limit, in Arabic</span></figcaption></figure>
-<figure><figure class="phone "><img src="img/screen-over-limit-en.jpg" alt="Over the limit in English" loading="lazy" width="689" height="1500"></figure><figcaption><span data-i18n="shot.2">Over the limit, in English</span></figcaption></figure>
+<figure><figure class="phone "><img src="img/screen-today-en.jpg" alt="Today screen in English with the spending pace" loading="lazy" width="689" height="1500"></figure><figcaption><span data-i18n="shot.2">Today, in English, with the spending pace</span></figcaption></figure>
 <figure><figure class="phone "><img src="img/screen-savings-ar.jpg" alt="Savings goal and 24-hour hold" loading="lazy" width="689" height="1500"></figure><figcaption><span data-i18n="shot.3">Savings goal and 24-hour hold</span></figcaption></figure>
 </div>
 <div class="grid2 wide-shots">
